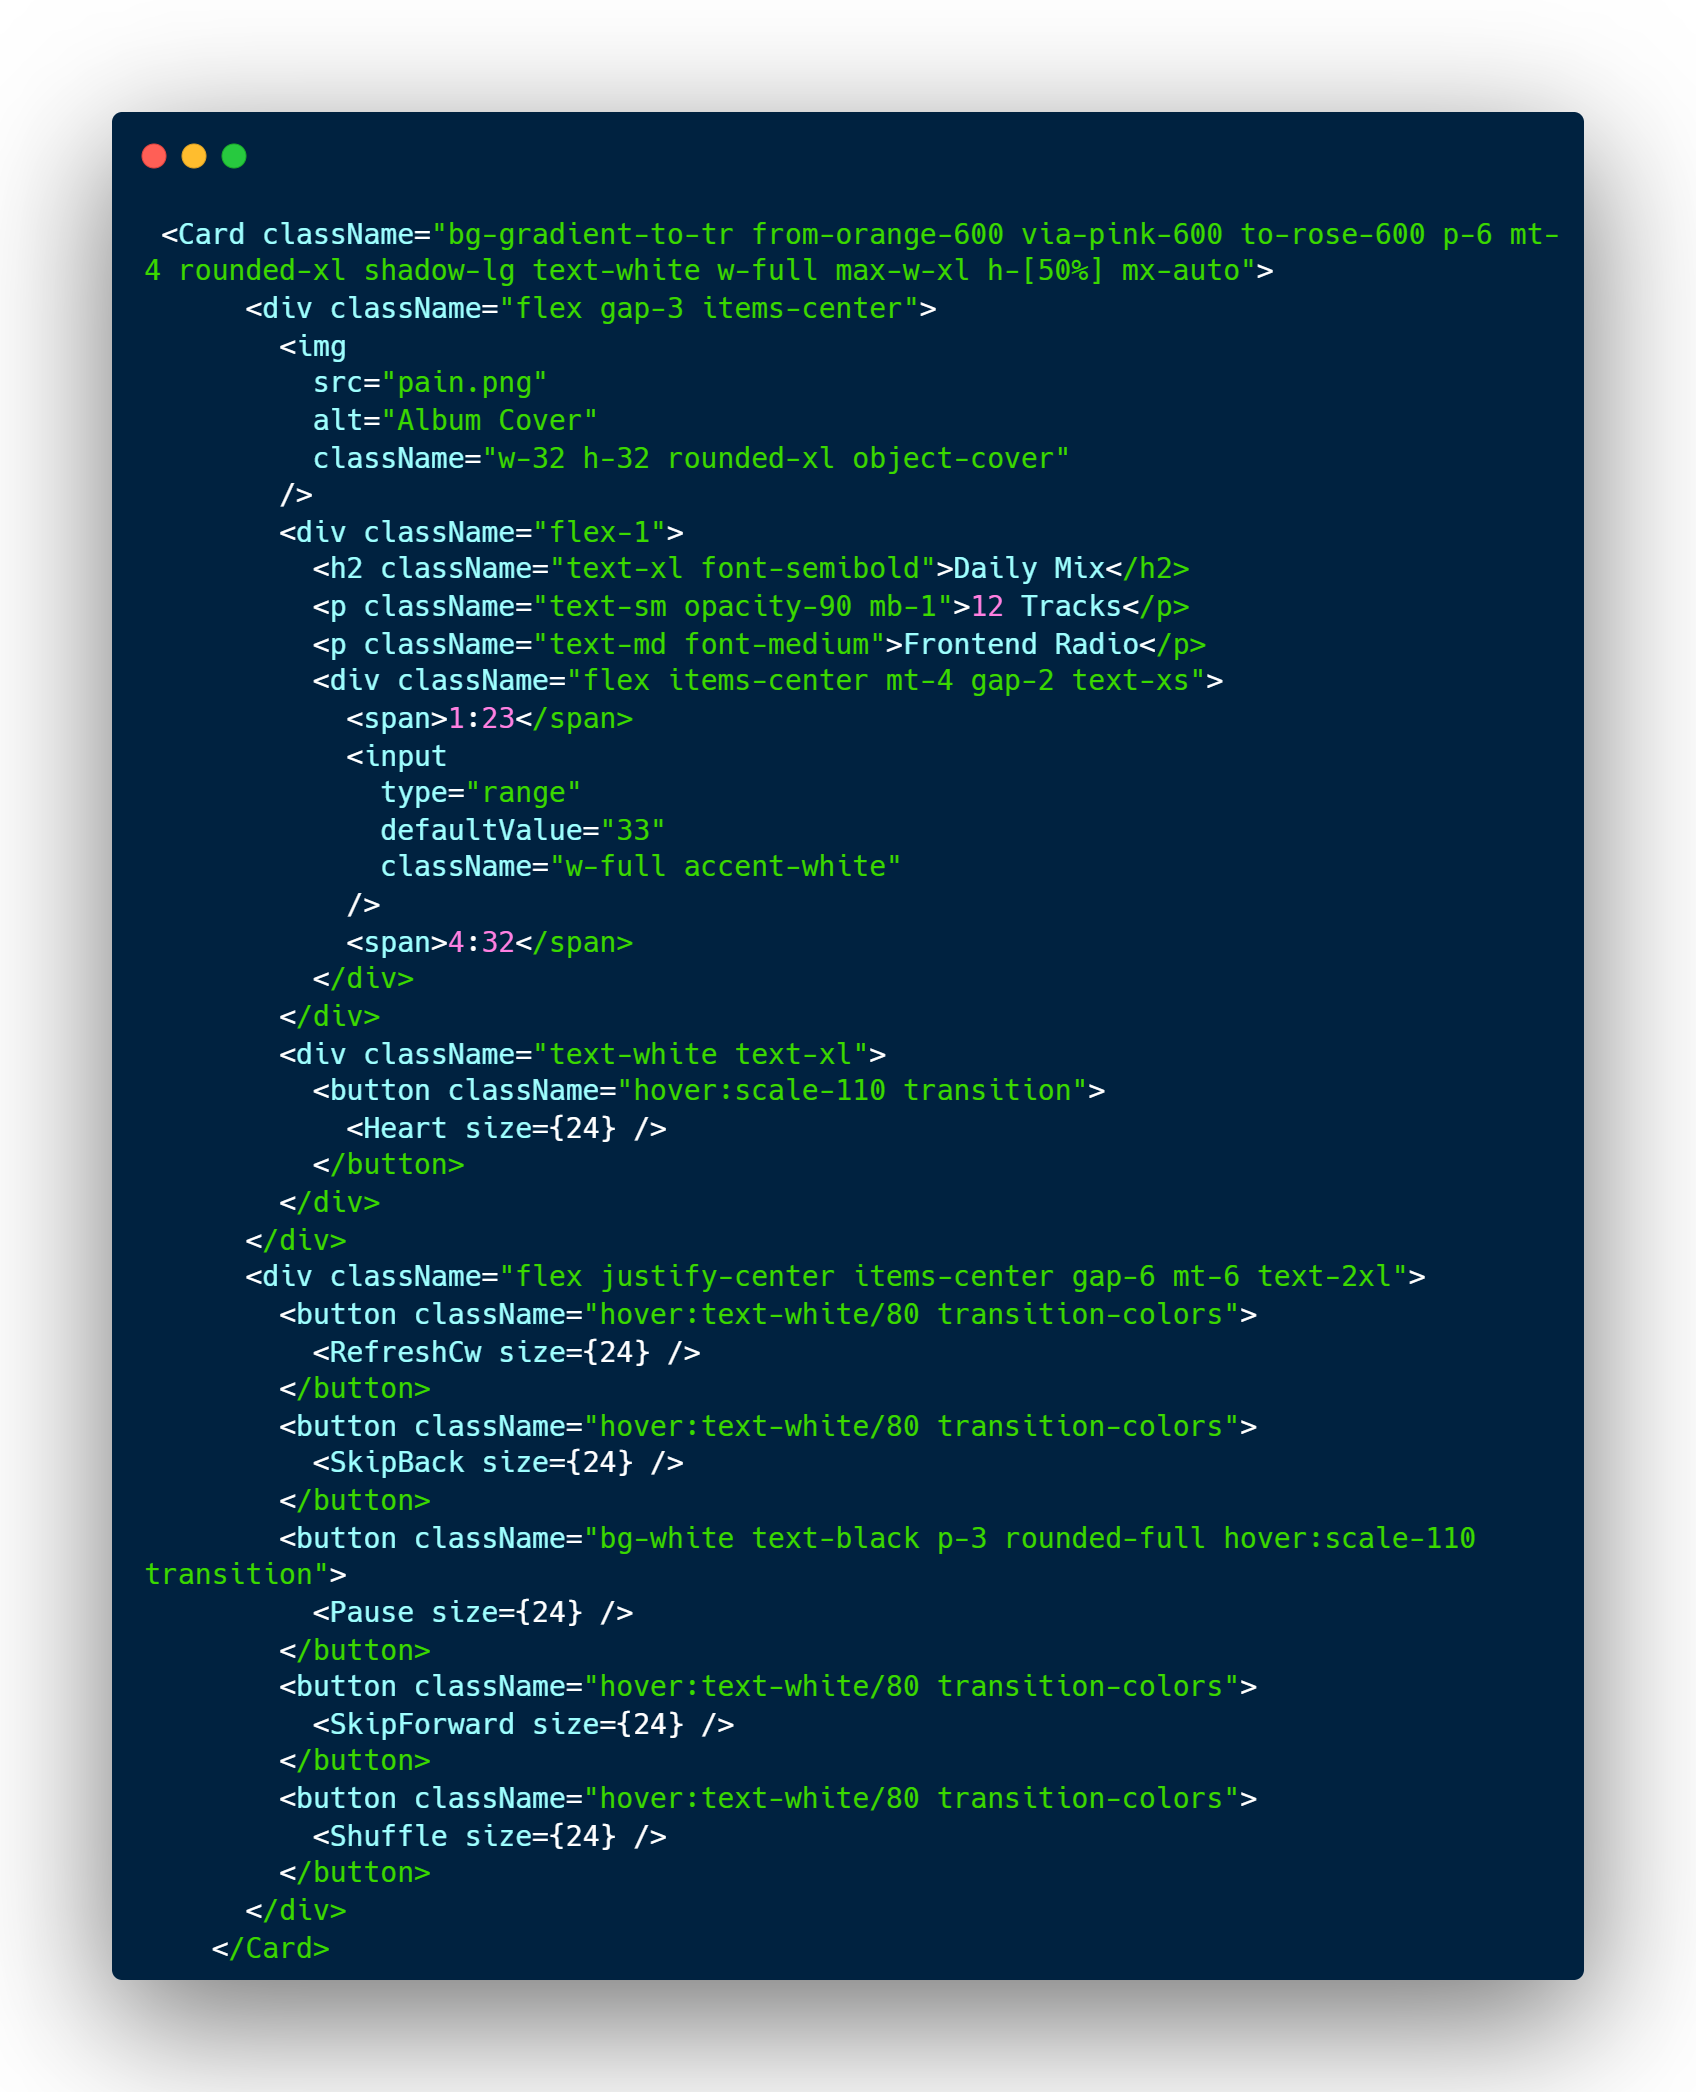
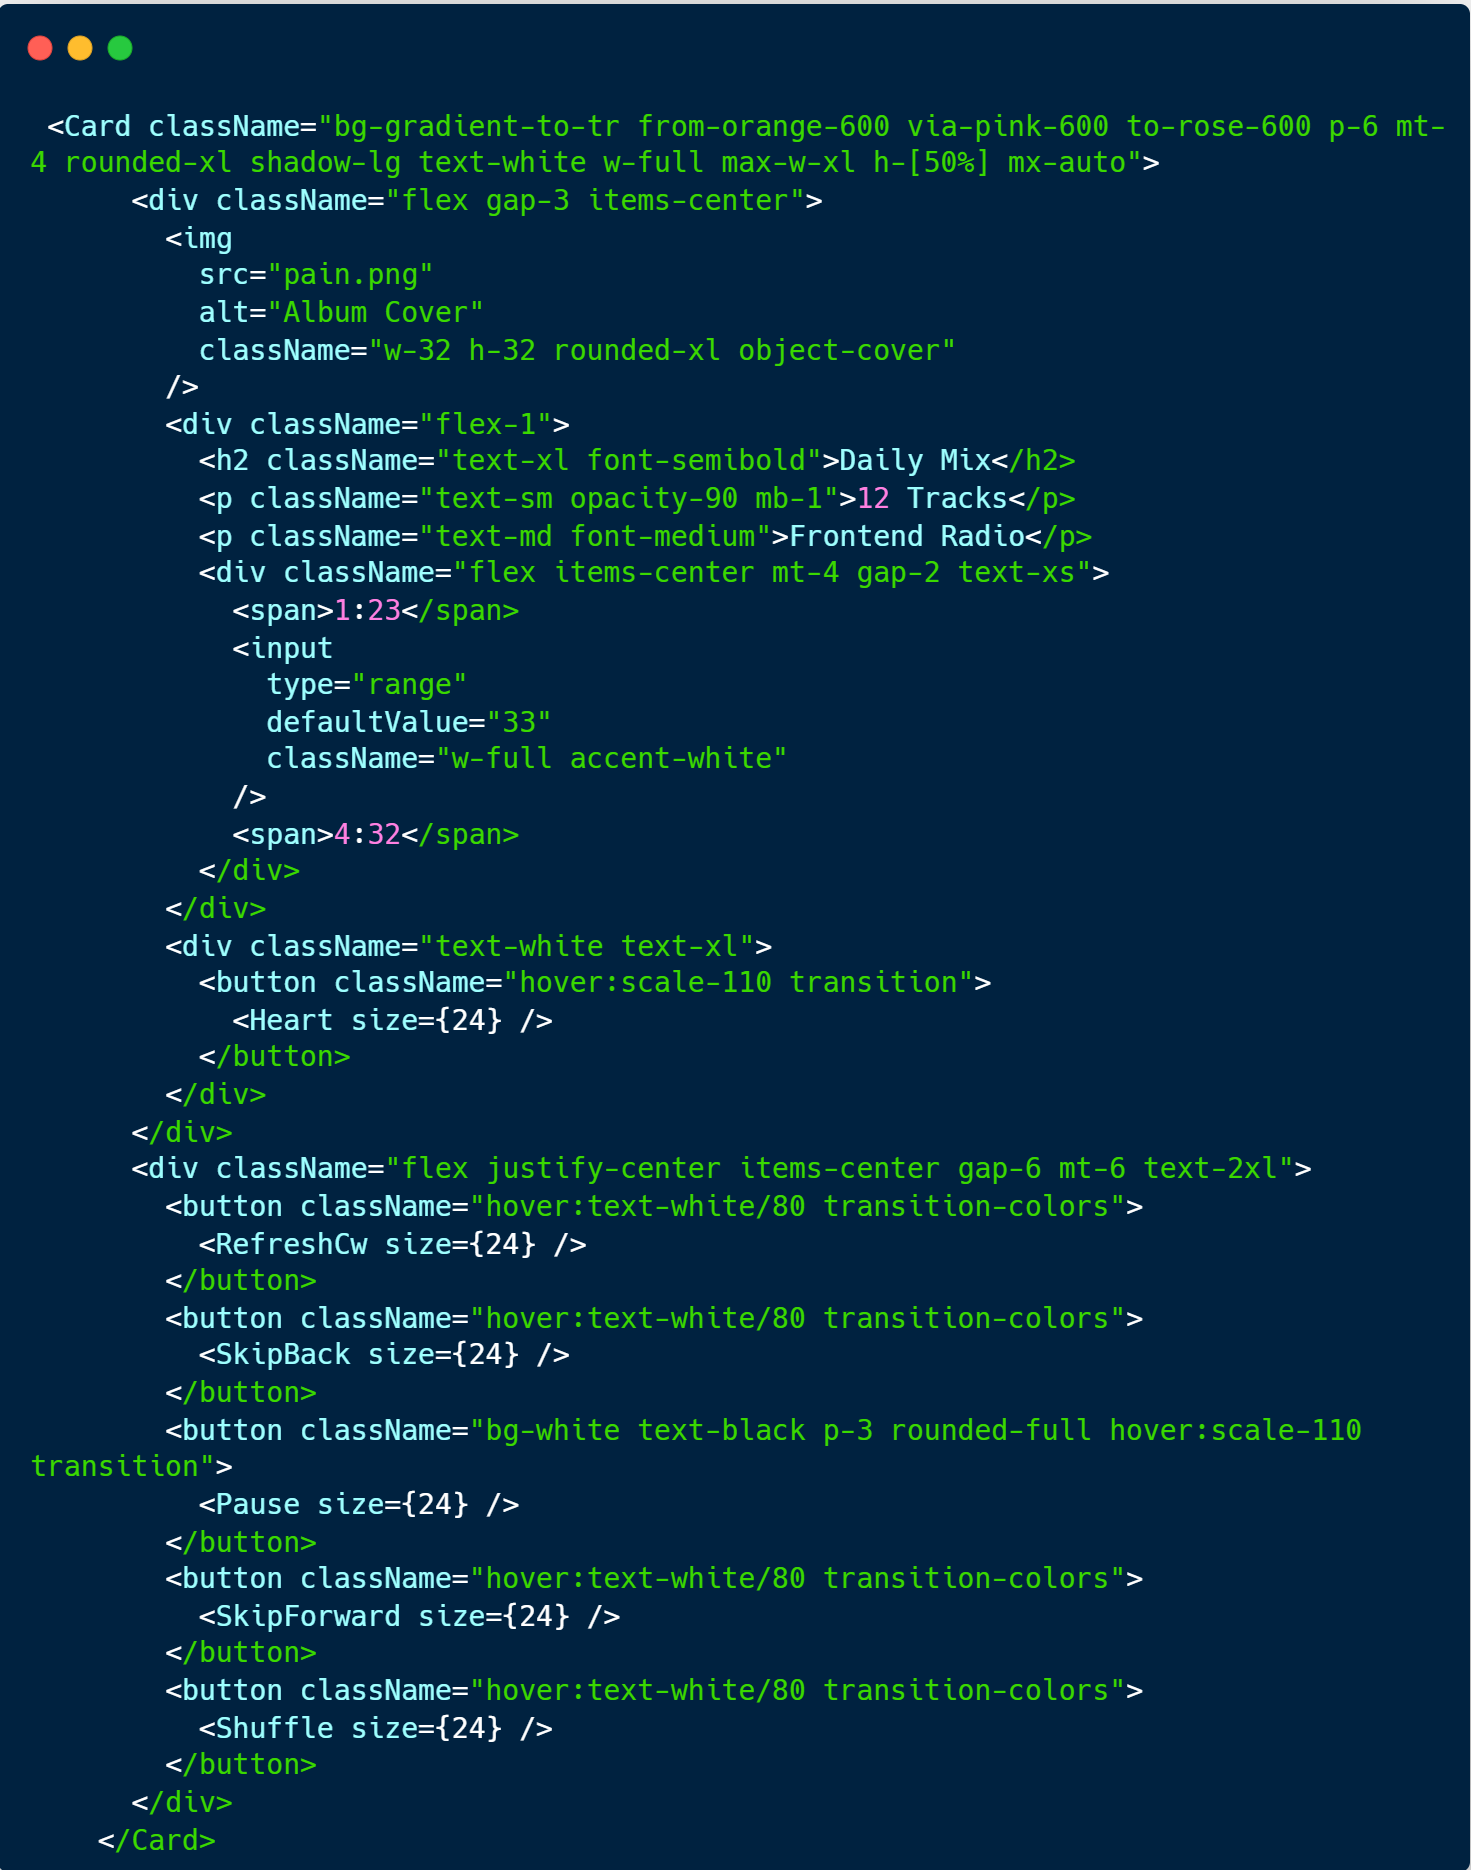
home page responsiveness done

diff --git a/website/docs/src/pages/Home.tsx b/website/docs/src/pages/Home.tsx
@@ -1,10 +1,7 @@
-import {useState} from 'react';
 import {Button, Card} from '@pkgs/uignite';
 import {CustomTheme} from '../utils/CustomTheme';
 import {motion} from 'framer-motion';
 import {
-  Copy,
-  Check,
   ShieldCheck,
   BookOpen,
   CheckCircle,
@@ -29,13 +26,6 @@ import {
   Shuffle,
 } from 'lucide-react';
 const Home = () => {
-  const [isCopied, setIsCopied] = useState(false);
-
-  const handleCopy = () => {
-    navigator.clipboard.writeText('npm i uignite');
-    setIsCopied(true);
-    setTimeout(() => setIsCopied(false), 2000);
-  };
   const features = [
     {
       icon: <ShieldCheck className="text-blue-500" size={24} />,
@@ -131,7 +121,7 @@ const Home = () => {
       <Navbar />
       {/* Main Content */}
       <GridBackground />
-      <div className="flex justify-center items-center ">
+      <div className="flex justify-center items-center mt-8 ">
         <div className=" max-w-[1200px]  w-full px-4 sm:px-4 lg:px-4 ">
           <div className="z-1 px-4 md:px-8 min-h-screen flex justify-center mt-4 ">
             <div className="w-full max-w-6xl  flex items-center justify-center">
@@ -160,14 +150,10 @@ const Home = () => {
                     </Button>
                   </Link>
                   <Button
-                    icon={
-                      !isCopied ? <Copy size="16px" /> : <Check size="16px" />
-                    }
-                    onClick={() => handleCopy()}
-                    className="bg-[#121212] dark:bg-[#000000] hover:bg-black/90 dark:hover:bg-black/50 text-white font-lg rounded-lg px-6 py-6 text-lg transition duration-300 shadow-md "
+                    className="hover:bg-blue-800 text-white font-lg rounded-lg px-6 py-6 text-lg transition duration-300 shadow-md "
                     data-clipboard-text="npm i uginite"
                   >
-                    npm i uginite
+                    Explore Components
                   </Button>
                 </div>
                 <TechStack />
@@ -181,7 +167,7 @@ const Home = () => {
                         <div className="dark:bg-blue-900/30 bg-gray-200 p-2 rounded-full">
                           {feature.icon}
                         </div>
-                        <h3 className="text-lg font-medium dark:text-white text-blue-950">
+                        <h3 className="text-sm sm:text-sm md:text-lg lg:text-lg xl:text-xl font-medium dark:text-white text-blue-950">
                           {feature.title}
                         </h3>
                       </div>
@@ -195,9 +181,9 @@ const Home = () => {
             </div>
           </div>
 
-          <div className="flex justify-center items-center py-10 px-4">
+          <div className="flex justify-center items-center py-10 px-4 mt-10">
             <motion.div
-              className="dark:text-[#f7f7f8] text-[#0d0346] font-heading max-w-6xl text-center font-semibold relative text-5xl leading-snug [text-wrap:balance]"
+              className="dark:text-[#f7f7f8] text-[#0d0346] font-heading max-w-6xl text-center font-semibold relative text-3xl sm:text-3xl md:text-5xl lg:5xl xl:6xl leading-snug [text-wrap:balance]"
               initial={{opacity: 0, y: 50}}
               whileInView={{opacity: 1, y: 0}}
               transition={{duration: 0.8, ease: 'easeOut'}}
@@ -217,25 +203,25 @@ const Home = () => {
               muted
               autoplay
               loop
-              className="shadow-black dark:shadow-indigo-900 shadow-2xl rounded-xl"
+              className="shadow-black max-h-[200px] sm:max-h-[200px] md:max-h-full lg:max-h-full dark:shadow-indigo-900 shadow-2xl rounded-xl"
             />
           </div>
 
           {/* cards  */}
-          <div className="mt-40 flex flex-row">
+          <div className="mt-20 md:mt-40 lg:mt-40 xl:mt-40 grid grid-cols-1 sm:grid-cols-1 md:grid-cols-2 lg:grid-cols-2 gap-4 px-4">
             <div className="flex-2">
-              <p className="text-7xl font-semibold ">
-                <span className="text-blue-400">Design</span> that adapts to
-                you.
+              <p className="text-4xl sm:text-7xl md:text-7xl lg:text-7xl font-semibold ">
+                <span className="dark:text-cyan-500 text-cyan-700">Design</span>{' '}
+                that <span className="text-pink-500">adapts</span> to you.
               </p>
-              <p className="mt-3 text-md dark:text-zinc-300 text-zinc-600">
+              <p className="mt-8 sm:mt-3 md:mt-3 lg:mt-3 text-md dark:text-zinc-300 text-zinc-600">
                 Uignite lets you tailor every detail with ease. With built-in
                 support for custom themes via our TailwindCSS plugin, your
                 interface can match your brand, mood, or imagination no limits,
                 just possibilities.
               </p>
 
-              <Card className="mb-6 bg-gradient-to-tr from-orange-600 via-pink-600 to-rose-600 p-6 mt-4 rounded-xl shadow-lg text-white w-full max-w-xl h-[45%] mx-auto">
+              <Card className="mb-6 border-0 dark:shadow-lg dark:shadow-black bg-gradient-to-tr from-blue-600 via-gray-900 to-black p-6 mt-4 rounded-xl  text-white w-full max-w-x h-[45%] sm:h-[45%] md:h-[45%] lg:[45%] mx-auto">
                 <div className="flex gap-3 items-center">
                   <img
                     src="pain.png"
@@ -288,7 +274,7 @@ const Home = () => {
 
           <div className="text-center ">
             <motion.p
-              className="text-6xl font-semibold mt-40 dark:text-[#f7f7f8] text-[#0d0346]"
+              className="text-4xl sm:text-4xl md:text-6xl lg:text-6xl  font-semibold mt-40 dark:text-[#f7f7f8] text-[#0d0346]"
               initial={{opacity: 0, y: -20}}
               animate={{opacity: 1, y: 0}}
               transition={{duration: 0.8, ease: 'easeOut'}}
@@ -307,7 +293,7 @@ const Home = () => {
             </motion.p>
           </div>
 
-          <div className="relative w-[1200px] overflow-hidden py-10">
+          <div className="relative w-full max-w-[1000px] md:max-w-[1200px] overflow-hidden py-10 mx-auto">
             <div className="flex w-max gap-2 animate-infinite-scroll">
               {testimonials.map((testimonial, index) => (
                 <Testimonials

diff --git a/packages/uignite/src/components/ui/Switch/Switch.tsx b/packages/uignite/src/components/ui/Switch/Switch.tsx
@@ -1,33 +1,31 @@
-import { useTheme } from "@/hooks/theme";
-import { useState } from "react";
+import {useTheme} from '@/hooks/theme';
+import {useState} from 'react';
 
 interface SwitchProps {
   defaultState?: boolean;
-  className?:string;
+  className?: string;
 }
 
-export function Switch({ defaultState = false }: SwitchProps) {
+export function Switch({defaultState = false}: SwitchProps) {
   const [state, setState] = useState<boolean>(defaultState);
-  const {toggleTheme} = useTheme()
+  const {toggleTheme} = useTheme();
   const handleToggle = () => {
     setState(!state);
     toggleTheme();
   };
   return (
     <div
-    
       role="switch"
       tabIndex={0}
       aria-checked={state}
       onClick={handleToggle}
       className={`relative w-12 h-6 rounded-full cursor-pointer transition-colors duration-300 ${
-        state ? "bg-neutral-700" : "bg-gray-300"
+        state ? 'bg-neutral-700' : 'bg-gray-300'
       }`}
     >
       <div
-       
         className={`absolute top-0.5 left-0.5 h-5 w-5 rounded-full shadow-md transform transition-transform duration-300 ${
-          state ? "translate-x-6 dark:bg-black bg-white" : "bg-white"
+          state ? 'translate-x-6 dark:bg-black bg-white' : 'bg-white'
         }`}
       />
     </div>
